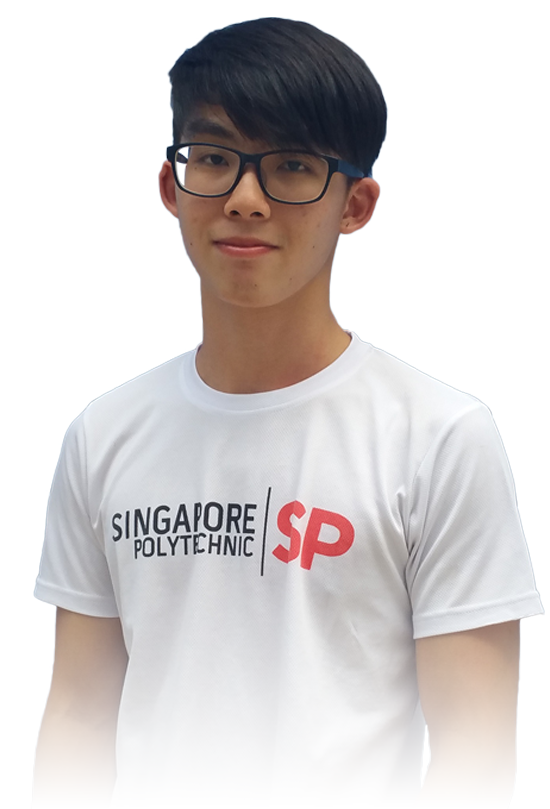
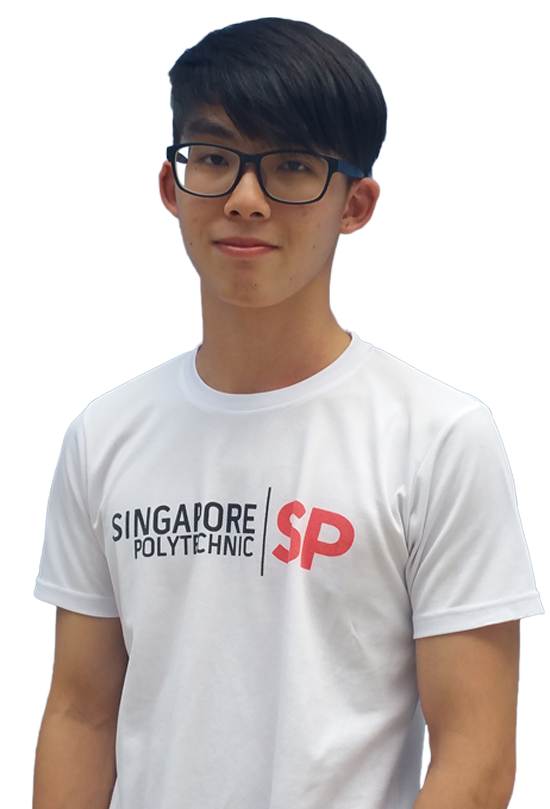
finish Hero Marquee

Changed region(s): [[0.0309, 0.7417, 0.9582, 1.0]]

diff --git a/src/components/Hero/Marquee.js b/src/components/Hero/Marquee.js
@@ -1,103 +1,99 @@
-import React, { Fragment } from 'react';
-import { useEffect } from 'react';
+import React, { Fragment, useRef, useEffect } from 'react';
 import styled from 'styled-components';
-import fluid from '../services/fluid';
 
 const DIV = styled.div`
-  position: absolute;
-  top: 0;
-  left: 0;
-  z-index: -99;
-  overflow: hidden;
-  /* top: ${fluid.calc(-50, -170, 'Full', 'px')}; */
-  /* opacity: .2; */
+  width: 100vw;
   display: flex;
-  width: 100%;
+  overflow-x: hidden;
 
   .marquee__row {
-    --row-width: ${fluid.calc(1000, 2000, 'Full', 'px')};
-    /* display: inline-block; */
+    --pos-x: 0;
+    --translateX: calc(var(--pos-x) * 1px);
     flex-shrink: 0;
-    background-color: pink;
-    width: var(--row-width);
-    text-align: center;
-    transform: translateX(calc(var(--row-width) * -1));
-  }
-
-  div:nth-child(2) {
-    background-color: green;
-  }
-
-  p {
-    
-    margin: 0;
-    white-space: nowrap;
-    /* color: #D3D3D3; */
-    color: white;
-    font-family: 'Merienda One', cursive;
-    font-size: ${fluid.calc(170, 350, 'Full', 'px')};
+    min-width: 100vw;
+    display: flex;
+    justify-content: space-around;
+    transform: translateX(var(--translateX));
   }
 `;
 
-function Marquee(props) {
-  const moveLeft = () => {
-    const rows = document.querySelectorAll('.marquee__row');
-    rows.forEach(row => {
-      let rowWidth = row.getBoundingClientRect().width;
-      let rowPosX = Number(getComputedStyle(row).getPropertyValue('--pos-x')) ? Number(getComputedStyle(row).getPropertyValue('--pos-x')) : -rowWidth;
-      if (rowPosX < -2 * rowWidth) {
-        rowPosX = -rowWidth + 1;
-      };
-      row.style.setProperty('transform', `translateX(${rowPosX - 1}px)`);
-      row.style.setProperty('--pos-x', (rowPosX - 1));
-    });
-  };
+function Marquee(props) { 
+
+  const marqueeRef = useRef();
+  const marqueeRow1Ref = useRef();
+  const marqueeRow2Ref = useRef();
+  const marqueeRow3Ref = useRef();
+  const cloneNum = Number(props.clone) ? Number(props.clone) : 1;
+  let marqueeItems = [];
+  for (let i = 0; i < cloneNum; i++) {
+    marqueeItems.push(props.children);
+  }
+
   
-  const moveRight = () => {
-    const rows = document.querySelectorAll('marquee__row');
-    rows.forEach(row => {
-      let rowWidth = row.getBoundingClientRect().width;
-      let rowPosX = Number(getComputedStyle(row).getPropertyValue('--pos-x')) ? Number(getComputedStyle(row).getPropertyValue('--pos-x')) : -rowWidth;
-      if (rowPosX > rowWidth) {
-        rowPosX = -rowWidth;
-      };
-      row.style.setProperty('transform', `translateX(${rowPosX + 1}px)`);
-      row.style.setProperty('--pos-x', (rowPosX + 1));
-    });  
-  };
+  useEffect(() => {
 
-  let posY = 0;
-  let speed = 25;
-  let myInterval = setInterval(moveLeft, speed);
+    const marqueeMove = (direction) => {
+      [marqueeRow1Ref.current,
+       marqueeRow2Ref.current, 
+       marqueeRow3Ref.current].forEach(row => {
+        let rowWidth = row.getBoundingClientRect().width;
+        let currentX = Number(getComputedStyle(row).getPropertyValue('--pos-x'));
+        let newX = 0;
+        switch (direction) {
+          case 'right':
+            newX = currentX ? (currentX + 1) : -rowWidth;
+            (newX > 0) && (newX = -rowWidth);
+            break;
+          default:
+            newX = currentX ? (currentX - 1) : -rowWidth;
+            (newX < (-2 * rowWidth)) && (newX = -rowWidth);
+        }
+        row.style.setProperty('--pos-x', newX);
+      });
+    };
 
-  const changeMarqueeDir = () => {
-    console.log('heha');
-    clearInterval(myInterval);
-    if (document.documentElement.scrollTop > posY) {
-      moveRight();
-      moveRight();
-      myInterval = setInterval(moveRight, speed);
-    } else {
-      moveLeft();
-      moveLeft();
-      myInterval = setInterval(moveLeft, speed);
-    }
-    posY = document.documentElement.scrollTop;  
-  };
+    const changeDir = () => {
+      clearInterval(marqueeInterval);
+      let scrollTop = document.documentElement.scrollTop;
+      let opposite = (props.dir === 'right') ? 'left' : 'right';
+      direction = (scrollTop > posY) ? props.dir : opposite;
+      marqueeMove(direction);
+      marqueeMove(direction);
+      marqueeInterval = setInterval(marqueeMove, speed, direction);
+      posY = scrollTop;
+    };
 
-  window.addEventListener('scroll', changeMarqueeDir);
-  // useEffect(() => {
-    
-  // }, []);
- return (
+    let direction = props.dir;
+    let posY = 0;
+    const speed = Number(props.speed) ? Number(props.speed) : 25;
+    let marqueeInterval = setInterval(marqueeMove, speed, direction);
+    console.log(props.alternate);
+    if (props.alternate) {
+      window.addEventListener('scroll', changeDir);
+     }
+    return () => {
+      clearInterval(marqueeInterval);
+      window.removeEventListener('scroll', changeDir);
+    };
+
+  }, [props]);
+
+
+  return (
   <Fragment>
-    <DIV className='marquee'>
-      <div className='marquee__row'><p>HAO ZHEN</p></div>
-      <div className='marquee__row'><p>HAO ZHEN</p></div>
-      <div className='marquee__row'><p>HAO ZHEN</p></div>
+    <DIV className={`marquee marquee--${props.className}`} ref={marqueeRef}>
+      <div className={`marquee__row marquee__row--${props.className}`} ref={marqueeRow1Ref}>
+        {marqueeItems}
+      </div>
+      <div className={`marquee__row marquee__row--${props.className}`} ref={marqueeRow2Ref}>
+        {marqueeItems}
+      </div>
+      <div className={`marquee__row marquee__row--${props.className}`} ref={marqueeRow3Ref}>
+        {marqueeItems}
+      </div>
     </DIV>
   </Fragment>
- );
+  );
 }
 
 export default Marquee;

diff --git a/src/components/services/GlobalStyle.js b/src/components/services/GlobalStyle.js
@@ -9,6 +9,8 @@ const GlobalStyle = createGlobalStyle`
 :root {
   --grey: #545454;
   --yellow: #EFA019;
+  --bg-color: white;
+  --hero-marquee-opacity: 0.3;
 
   --fluid-container-padding: ${fluid.container(16, 220, 16)};
   --header-logo-font-size: ${fluid.calc(28, 36, 'Full', 'px')};
@@ -28,8 +30,8 @@ const GlobalStyle = createGlobalStyle`
   --hero-content-title-margin-top: 2.5rem;
   --hero-content-title-span-font-size: ${fluid.calc(24, 56, 'Full', 'px')};
   --hero-content-title-span-line-height: ${fluid.calc(29.26, 68.26, 'Full', 'px')};
-  --hero-content-font-size: ${fluid.calc(16, 18, 'Full', 'px')};
-  --hero-content-line-height: ${fluid.calc(19.5, 21.94, 'Full', 'px')};
+  --hero-content-font-size: ${fluid.calc(16, 24, 'Full', 'px')};
+  --hero-content-line-height: ${fluid.calc(19.5, 26, 'Full', 'px')};
 }
 
 @media (min-width: 768px) {
@@ -42,7 +44,19 @@ const GlobalStyle = createGlobalStyle`
   }
 }
 
-* {box-sizing: border-box;}
+@media (prefers-color-scheme: dark) {
+    :root {
+        --grey: #ececec;
+        --yellow: #ffd700;
+        --bg-color: #2d2d2d;
+        --hero-marquee-opacity: 0.1;
+    }
+}
+
+* {
+  box-sizing: border-box;
+  -webkit-tap-highlight-color: transparent;
+}
 
 html {
   font-family: 'Montserrat', sans-serif;
@@ -52,6 +66,7 @@ html {
 body {
     margin: 0;
     padding: 0;
+    background-color: var(--bg-color);
 }
 
 a {

diff --git a/src/components/Hero/Hero.js b/src/components/Hero/Hero.js
@@ -19,6 +19,28 @@ const MAIN = styled.main`
   align-items: center;
   text-align: var(--hero-text-align);
   justify-content: right;
+
+  .marquee {
+    position: absolute;
+    top: ${fluid.calc(115, 135, 'Full', 'px')};
+    left: 0;
+    pointer-events: none;
+    z-index: -99;
+    opacity: var(--hero-marquee-opacity);
+
+    p {
+      margin: 0 0.3em;
+      font-family: 'Merienda One', cursive;
+      font-size: ${fluid.calc(120, 350, 'Full', 'px')};
+      color: #D3D3D3;
+      /* darkmode opacity 0.3 */
+    }
+  }
+`;
+
+const HeroImg = styled.div`
+  line-height: 0;
+  mask-image: linear-gradient(0deg, transparent 0%, black 34%);
 `;
 
 const HeroContent = styled.section`
@@ -56,13 +78,17 @@ function Hero(props) {
  return (
   <Fragment>
     <MAIN>
-      <IMG src={portrait} alt='portrait' />
+      <HeroImg>
+        <IMG src={portrait} alt='portrait' />
+      </HeroImg>
       <HeroContent aria-label='hero content'>
         <h1>Hi, I'm a<br/><span>Front-end Developer</span></h1>
         <p>I turn aesthethic and creative design into interactive and engaging website.</p>
         <HeroBtn>Resume</HeroBtn>
       </HeroContent>
-      <Marquee/>
+      <Marquee className='hero' clone='1' dir="left" alternate speed="25">
+        <p>HAO ZHEN</p>
+      </Marquee>
     </MAIN>
   </Fragment>
  );
